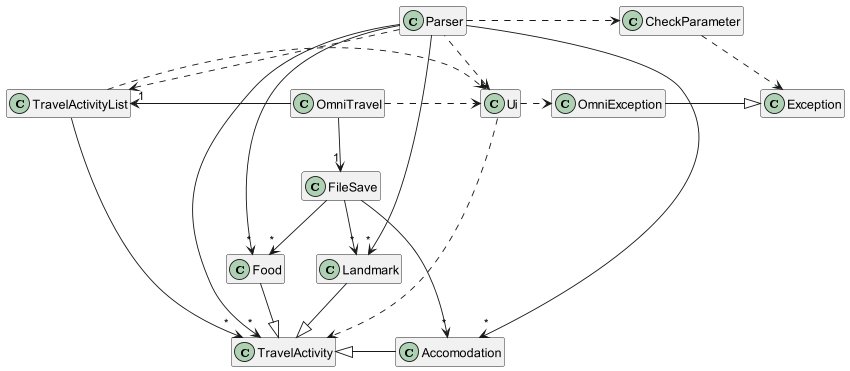
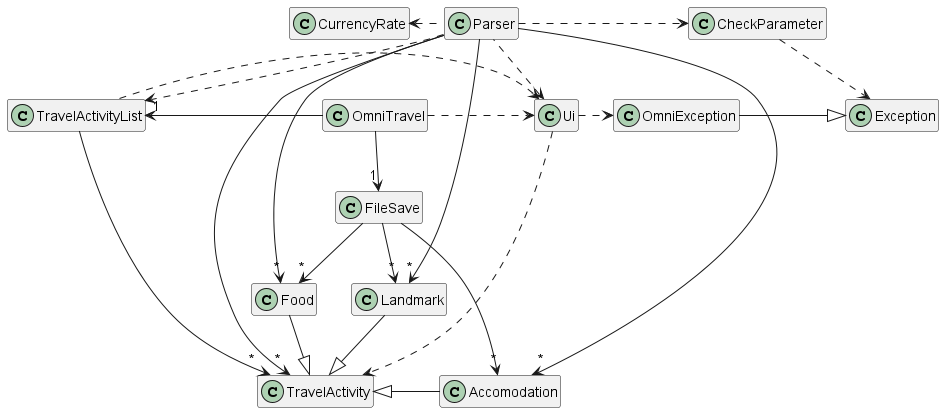
Add currency exchange API

diff --git a/src/main/java/seedu/omnitravel/exchangerateapi/CurrencyRate.java b/src/main/java/seedu/omnitravel/exchangerateapi/CurrencyRate.java
@@ -1,0 +1,74 @@
+package seedu.omnitravel.exchangerateapi;
+
+import seedu.omnitravel.errorhandlers.CheckParameters;
+import seedu.omnitravel.errorhandlers.OmniException;
+
+import java.io.IOException;
+import java.net.URI;
+import java.net.http.HttpClient;
+import java.net.http.HttpRequest;
+import java.net.http.HttpResponse;
+
+public class CurrencyRate {
+
+    /**
+     * Converts the local currency value to the foreign currency value
+     * @param localCurrency The local currency the user wants to convert
+     * @param foreignCurrency The foreign currency the user want to convert to
+     * @param amount The amount of local currency the user wants to change
+     * @throws IOException Throws an exception when there is a problem accessing the web
+     * @throws InterruptedException Throws an exception when the program is interrupted while accessing
+     * the web
+     * @throws OmniException Throws an exception when the currencies are invalid
+     */
+    public static void convertCurrency(String localCurrency, String foreignCurrency, float amount) throws
+            OmniException, IOException, InterruptedException{
+        String[] urls = {"https://latest.currency-api.pages.dev/v1/currencies/" + localCurrency + ".json",
+                "https://cdn.jsdelivr.net/npm/@fawazahmed0/currency-api@latest/v1/currencies/" + localCurrency + ".json"};
+        int errorCounter = 0;
+        for(String url:urls){
+            try{
+                // Access the website
+                HttpClient client = HttpClient.newHttpClient();
+                HttpRequest request = HttpRequest.newBuilder()
+                        .uri(URI.create(url))
+                        .build();
+                HttpResponse<String> response = client.send(request, HttpResponse.BodyHandlers.ofString());
+                String jsonResponse = response.body();
+
+
+                if(!jsonResponse.contains("\"" + localCurrency + "\"")){
+                    throw new OmniException(localCurrency + " is an invalid currency!");
+                } else if(!jsonResponse.contains("\"" + foreignCurrency + "\"")){
+                    throw new OmniException(foreignCurrency + " is an invalid currency!");
+                }
+
+                // Parses the data
+                int index = jsonResponse.indexOf("\"" + foreignCurrency + "\"");
+                String subResponse = jsonResponse.substring(index);
+                int indexOfComma = subResponse.indexOf(",");
+                int indexOfColon = subResponse.indexOf(":");
+                String conversionRate = subResponse.substring(indexOfColon+1, indexOfComma).trim();
+                float foreignAmount = amount * Float.parseFloat(conversionRate);
+                // Print the response
+                System.out.println(amount + localCurrency + " = " + foreignAmount + foreignCurrency);
+                break;
+            } catch(IOException | InterruptedException exception){
+                System.out.println("Error while accessing URL, trying another URL...");
+                errorCounter++;
+                if(errorCounter == 2){
+                    System.out.println("Website might be Down!");
+                }
+            }
+        }
+
+
+
+
+    }
+
+
+
+
+
+}

diff --git a/src/main/java/seedu/omnitravel/errorhandlers/CheckParameters.java b/src/main/java/seedu/omnitravel/errorhandlers/CheckParameters.java
@@ -3,6 +3,10 @@ package seedu.omnitravel.errorhandlers;
 import seedu.omnitravel.ui.Ui;
 
 import java.io.IOException;
+import java.net.URI;
+import java.net.http.HttpClient;
+import java.net.http.HttpRequest;
+import java.net.http.HttpResponse;
 import java.time.DateTimeException;
 import java.util.NoSuchElementException;
 
@@ -111,6 +115,28 @@ public class CheckParameters {
     }
 
     /**
+     * Checks the parameters for the currency exchange command against a list of available currencies.
+     * It also checks that the parameters are valid
+     * @param command The input given by the user that has been split into an array
+     * @param line The input given by the user
+     * @throws OmniException Throws an exception when parameters are invalid
+     */
+    public static void checkCurrencyParameters(String[] command, String line) throws OmniException{
+        String delimiter = "/";
+        String[] lineSplit = line.split(delimiter);
+
+        if(command.length == 4 && (!isNumeric(command[1].trim()) || Float.parseFloat(command[1].trim()) <= 0)){
+            throw new OmniException("Please ensure that the amount is a number that is more than 0 and not blank");
+        } else if(command.length == 4 && command[2].trim().equalsIgnoreCase(command[3].trim())){
+            throw new OmniException("The 2 currencies cannot be the same!");
+        } else if(command.length < 4 || !lineSplit[1].contains("from")){
+            throw new OmniException("Please check that your format is correct:" +
+                                    "change AMOUNT /from CURRENCY /to CURRENCY");
+        }
+
+    }
+
+    /**
      * Checks for all format errors in the user input and throes the correct exceptions
      *
      * @param exception Exception thrown
@@ -126,6 +152,8 @@ public class CheckParameters {
             Ui.printDateTimeExceptionError();
         } else if (exception instanceof IOException) {
             Ui.printSavingError();
+        } else if (exception instanceof InterruptedException) {
+            Ui.printInterruptedError();
         }
     }
 }

diff --git a/src/main/java/seedu/omnitravel/omnitravel/OmniTravel.java b/src/main/java/seedu/omnitravel/omnitravel/OmniTravel.java
@@ -16,37 +16,10 @@ import java.util.logging.Logger;
 import java.util.logging.SimpleFormatter;
 import java.util.logging.LogManager;
 
-import java.net.URI;
-import java.net.http.HttpClient;
-import java.net.http.HttpRequest;
-import java.net.http.HttpResponse;
 
 public class OmniTravel {
 
     public static void main(String[] args) throws IOException {
-        try {
-            HttpClient client = HttpClient.newHttpClient();
-            HttpRequest request = HttpRequest.newBuilder()
-                    .uri(URI.create("https://cdn.jsdelivr.net/npm/@fawazahmed0/currency-api@2024-03-02/v1/currencies/eur.json"))
-                    .build();
-
-            HttpResponse<String> response = client.send(request, HttpResponse.BodyHandlers.ofString());
-            String jsonResponse = response.body();
-
-           int index = jsonResponse.indexOf("\"sgd\"");
-           String subResponse = jsonResponse.substring(index);
-           int comma = subResponse.indexOf(",");
-           System.out.println(subResponse.substring(0,comma));
-            // Now you can work with the parsed data
-
-            ;
-            // Print the JSON response
-
-        } catch(InterruptedException exception){
-            System.out.println("cool");
-        }
-
-
 
         Logger logger = Logger.getLogger("Main");
         initialiseLogger(logger);
@@ -71,6 +44,9 @@ public class OmniTravel {
                 case "add":
                     Parser.addCommand(line, list);
                     break;
+                case "change":
+                    Parser.currencyExchangeCommand(line);
+                    break;
                 case "accommodation":
                 case "food":
                 case "landmark":
@@ -93,6 +69,7 @@ public class OmniTravel {
                 case "help":
                     Ui.helpCommand();
                     break;
+
                 case "bye":
                     Ui.printBye();
                     return;

diff --git a/src/main/java/seedu/omnitravel/parser/Parser.java b/src/main/java/seedu/omnitravel/parser/Parser.java
@@ -1,4 +1,5 @@
 package seedu.omnitravel.parser;
+import seedu.omnitravel.exchangerateapi.CurrencyRate;
 import seedu.omnitravel.travelactivitytypes.TravelActivityList;
 import seedu.omnitravel.errorhandlers.CheckParameters;
 import seedu.omnitravel.errorhandlers.OmniException;
@@ -8,6 +9,7 @@ import seedu.omnitravel.travelactivitytypes.Landmark;
 import seedu.omnitravel.travelactivitytypes.TravelActivity;
 import seedu.omnitravel.ui.Ui;
 
+import java.io.IOException;
 import java.time.LocalDate;
 import java.util.logging.Logger;
 
@@ -335,6 +337,32 @@ public class Parser {
             throw new OmniException("Do you mean the command listtags?");
         }
         Ui.printLine();
+    }
+
+    /**
+     * Handles the case whereby the command is change
+     * @param line The input given by the user
+     * @throws OmniException Throws an exception when the parameters are invalid
+     * @throws InterruptedException Throws an exception when the thread is interrupted
+     * @throws IOException Throws an exception when there is an error during an I/O operation
+     */
+    public static void currencyExchangeCommand(String line) throws OmniException{
+        Ui.printLine();
+        try {
+
+            String delimiter = "change | /from | /to ";
+            String[] command = line.split(delimiter);
+            // Check parameters
+            CheckParameters.checkCurrencyParameters(command, line);
+            float amount = Float.parseFloat(command[1].trim());
+            String localCurrency = command[2].trim();
+            String foreignCurrency = command[3].trim();
+            CurrencyRate.convertCurrency(localCurrency, foreignCurrency, amount);
+        } catch(InterruptedException | IOException exception){
+            System.out.println("Website might be down!");
+        }
+        Ui.printLine();
+
     }
 
 }

diff --git a/src/main/java/seedu/omnitravel/ui/Ui.java b/src/main/java/seedu/omnitravel/ui/Ui.java
@@ -91,6 +91,10 @@ public class Ui {
         System.out.println("Something went wrong when saving the file");
     }
 
+    public static void printInterruptedError(){
+        System.out.println("Warning Website might be down!");
+    }
+
     /**
      * Prints out the activity in a list
      * @param activity The travel activity

diff --git a/docs/UserGuide.md b/docs/UserGuide.md
@@ -160,6 +160,13 @@ Format: `findtag TAG`
 
 Examples of usage: `findtag sightseeing`
 
+### List tags from the list : `listtags`
+
+Lists out all the tags that the user has placed in the list
+
+Format: `listtags`
+
+Examples of usage: `listtags`
 ### Find activity from the list using activity type : `findtype`
 
 Find an activity based on their type. All activities with the given type will be listed out.
@@ -204,6 +211,19 @@ Example of usage:
 `totalexpense /type food`
 `totalexpense`
 
+### Converting a currency : `change`
+
+Converts the currency from one currency to another
+
+Format: `change AMOUNT /from CURRENCY1 /to CURRENCY2`
+* `CURRENCY1` and `CURRENCY2` cannot be the same currency
+* `AMOUNT` has to be a valid number
+* `CURRENCY1` and `CURRENCY2` has to be in the form `sgd` for singapore dollars, `myr` for malaysia ringit.
+
+Examples of usage:
+* change 100 /from sgd /to myr
+* change 1000 /from myr /to usd
+* 
 ## FAQ
 
 **Q**: How do I transfer my data to another computer? 
